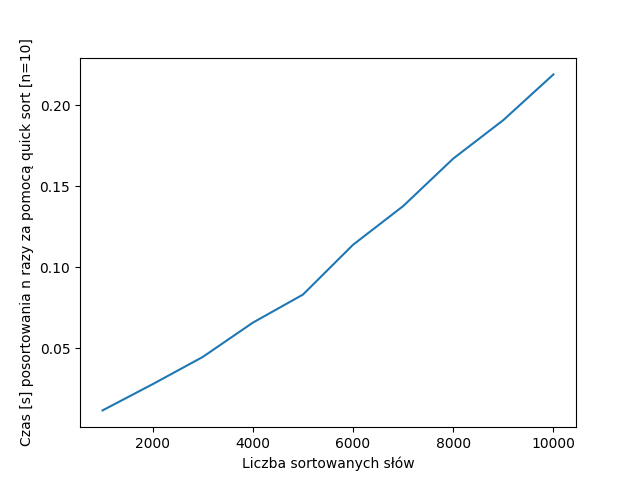
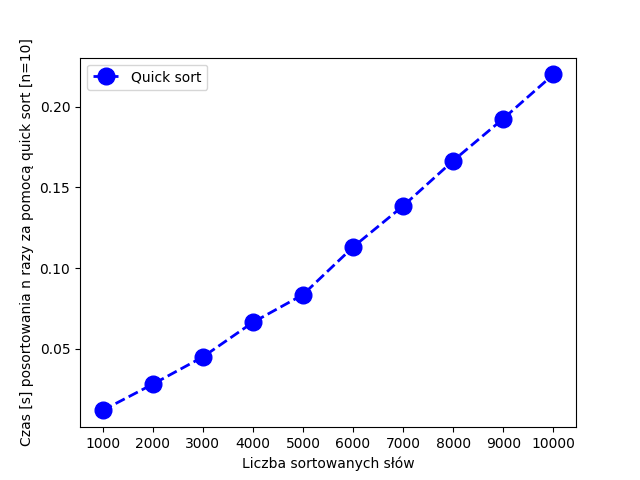
Added tests for sorting functions and changed few plotting details

diff --git a/lab2/test_sorts.py b/lab2/test_sorts.py
@@ -1,0 +1,31 @@
+from sorts import merge_sort, bubble_sort, selection_sort, quick_sort
+from sorts_benchmark import get_table_of_words
+
+
+def test_merge_sort():
+    word_numbers = [i*1000 for i in range(1, 11)]
+    for number in word_numbers:
+        m_table = merge_sort(get_table_of_words(number))
+        assert m_table == sorted(get_table_of_words(number))
+
+
+def test_selection_sort():
+    word_numbers = [i*1000 for i in range(1, 11)]
+    for number in word_numbers:
+        s_table = selection_sort(get_table_of_words(number))
+        assert s_table == sorted(get_table_of_words(number))
+
+
+def test_bubble_sort():
+    word_numbers = [i*1000 for i in range(1, 11)]
+    for number in word_numbers:
+        b_table = bubble_sort(get_table_of_words(number))
+        assert b_table == sorted(get_table_of_words(number))
+
+
+def test_quick_sort():
+    word_numbers = [i*1000 for i in range(1, 11)]
+    for number in word_numbers:
+        q_table = quick_sort(get_table_of_words(number))
+        assert q_table == sorted(get_table_of_words(number))
+

diff --git a/lab2/sorts_benchmark.py b/lab2/sorts_benchmark.py
@@ -40,9 +40,10 @@ def get_times(iter_times=1):
 
 
 def plot_data(x_axis, y_axis, x_label="", y_label=""):
-    pyplot.plot(x_axis, y_axis)
+    pyplot.plot(x_axis, y_axis, 'bo--', linewidth=2, markersize=12)
     pyplot.ylabel(y_label)
     pyplot.xlabel(x_label)
+    pyplot.xticks(x_axis)
 
 
 if __name__ == "__main__":
@@ -50,9 +51,10 @@ if __name__ == "__main__":
     results = get_times(iter_times)
     for name in results:
         y_axis = results[name]
-        x_axis = [i*1000 for i in range(1, 11)]   
+        x_axis = [i*1000 for i in range(1, 11)]
         x_label = "Liczba sortowanych słów"
         y_label = "Czas [s] posortowania n razy za pomocą " + name.lower() + " sort" + f" [n={iter_times}]"
         plot_data(x_axis, y_axis, x_label, y_label)
+        pyplot.legend([name + " sort"])
         pyplot.savefig(name + ".png")
         pyplot.clf()
